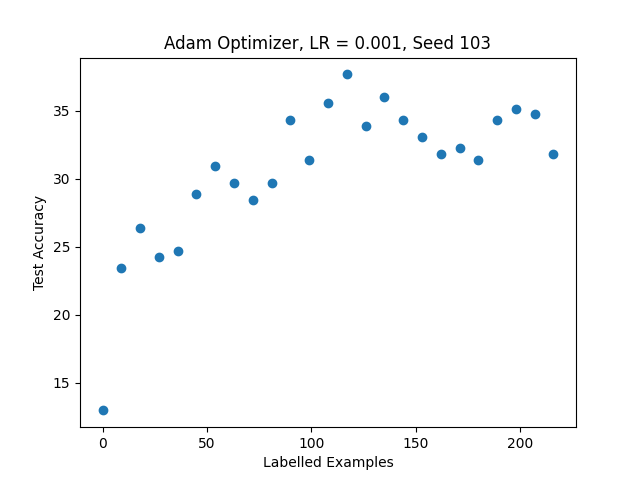
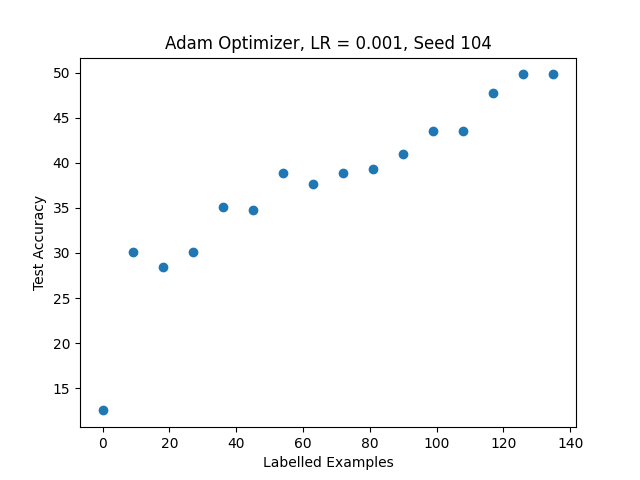
Preparing for LC25000 pickling

diff --git a/Active_FSL/base_main.py b/Active_FSL/base_main.py
@@ -11,6 +11,7 @@ import torch.optim as optim
 from torch.utils.data import DataLoader
 import torch.optim.lr_scheduler as lr_scheduler
 from torch.utils.data.sampler import SubsetRandomSampler
+import baal
 
 # Torchvison
 import torchvision.transforms as T
@@ -146,6 +147,33 @@ def test(models, dataloaders, mode='val'):
     return acc_all, acc
 
 
+def probs(models, dataloaders, mode='val'):
+    """
+    models = {'backbone': resnet18}
+    dataloaders  = {'train': train_loader, 'test': test_loader}
+    
+    """
+    assert mode == 'val' or mode == 'test'
+    
+    # switch to evaluation mode
+    models['backbone'].eval() 
+    
+    prob = []
+    
+    with torch.no_grad(): #speed up computation when no backprop is necessary
+        for (inputs, labels) in dataloaders[mode]:
+            inputs = inputs.cuda()
+            labels = labels.cuda()
+            
+            if ( len(labels) == BATCH ):
+                logits, _ = models['backbone'](inputs)
+                sc = torch.nn.functional.softmax(logits, dim=1)
+                prob.append(sc)
+    prob = torch.stack(prob)
+    return prob
+
+
+
 
 ############## Informativeness calculation methods ##############
 
@@ -168,13 +196,12 @@ def get_uncertainty_entropy(models, unlabeled_loader,unlabeled_set):
 def get_uncertainty_margin(models, unlabeled_loader):
     models['backbone'].eval()
     uncertainty_score=[]    
+    
     with torch.no_grad():
-        i=0
         for (inputs, labels) in unlabeled_loader:
             inputs = inputs.cuda()
             labels = labels.cuda()
             scores, _ = models['backbone'](inputs)
-            i=i+1
             probs = torch.nn.functional.softmax(scores, dim=1)           
             for x in probs:
                 xb=x.sort(0,True)[0]
@@ -184,21 +211,27 @@ def get_uncertainty_margin(models, unlabeled_loader):
     return uncertainty_score
 
 
-
-
-
-
+###### Query Strategy: Least Confidence ######
+def get_uncertainty_LC(models, unlabeled_loader):
+    models['backbone'].eval()
+    uncertainty_score=[]
+    with torch.no_grad():
+        for (inputs, labels) in unlabeled_loader:
+            inputs = inputs.cuda()
+            labels = labels.cuda()
+            scores, _ = models['backbone'](inputs)        
+            probs = torch.nn.functional.softmax(scores, dim=1)           
+            for x in probs:
+                xb=x.sort(0,True)[0]               
+                uncertainty_score.append(1.0/xb[0])                
+        uncertainty_score=torch.Tensor(uncertainty_score)
+    return uncertainty_score
 
 ################### Main ###################
 if __name__ == '__main__':
     
     y = [];
     x = [i*9 for i in range(CYCLES)]
-    
-    beginacc=0
-    midacc = 0
-    endacc = 0
-    finalacc = 0
     
     for trial in range(TRIALS): ## TRIALS=1
         indices = list(range(NUM_TRAIN)) # in config.py, we defined NUM_TRAIN = 10000
@@ -253,7 +286,7 @@ if __name__ == '__main__':
         ##### Active learning cycles #####
         for cycle in range(CYCLES): # cycles in config
 
-            criterion      = nn.CrossEntropyLoss(reduction='none')            
+            criterion      = nn.CrossEntropyLoss(reduction='none')
             
             # stochastic gradient descent
             #optim_backbone = optim.SGD(models['backbone'].fc.parameters(), lr=LR, momentum=MOMENTUM, weight_decay=WDECAY)
@@ -281,15 +314,6 @@ if __name__ == '__main__':
             
             # for plotting
             y.append(acc_all)
-            
-            if cycle == 1:
-                beginacc = acc_all
-            elif cycle == 6:
-                midacc = acc_all
-            elif cycle == 10:
-                endacc = acc_all
-            elif cycle == 14:
-                finalacc = acc_all
             
             # the training and test portion of the loop is now complete
             # what follows is the active learning portion
@@ -325,6 +349,14 @@ if __name__ == '__main__':
             """ normalized margin and entropy """
             #uncertainty = torch.nn.functional.normalize(get_uncertainty_margin(models, unlabeled_loader), dim=0) + torch.nn.functional.normalize(get_uncertainty_entropy(models, unlabeled_loader, unlabeled_set), dim=0)
             
+            """ Test """
+            #probabilities = probs(models, dataloaders, mode='test')
+            #uncertainty = get_uncertainty_LC(models, unlabeled_loader)
+            
+            
+            
+            
+            """ Arguments """
             arg = np.argsort(uncertainty)
             
             # optional randomizer
@@ -334,7 +366,7 @@ if __name__ == '__main__':
             ##### First round selection - individually selected samples #####
             
             # ADDENDUM most informative samples method
-            # first_selection_K_samples=list(torch.tensor(unlabeled_set)[arg][-ADDENDUM:].numpy()) # ADDENDUM=K, select K samples in each active learning cycle.
+            #first_selection_K_samples=list(torch.tensor(unlabeled_set)[arg][-ADDENDUM:].numpy()) # ADDENDUM=K, select K samples in each active learning cycle.
             
             # even selection method
             step = len(unlabeled_set)//ADDENDUM + 1
@@ -343,29 +375,34 @@ if __name__ == '__main__':
             
             ##### Second round selection - pseudocomplete sets #####
             
+            
+            """ Regular pseudocomplete sets"""
+            
             list0=[]
             second_selection_samples=[]
             
             """
             for item in torch.flip(arg,[0]): # arg is the query list (indices)
-                 #true_label=data_unlabeled.targets[item] # target is the true label
-                true_label = pseudo_labels[item]
+                true_label=data_unlabeled.targets[item] # target is the true label
+                #true_label = pseudo_labels[item]
                 if list0.count(true_label)<NUM_SHOTS:
                     list0.append(true_label)
                     second_selection_samples.append(item)
                 if len(list0)>(NUM_CLASSES*NUM_SHOTS-1): # sample a complete N-way one-shot support set with pseudolabels
                     break
-            """     
-            
+            """  
+
             
             
             """ evenly selected pseudo complete sets """
+            
             
             splits = np.array_split(arg, ADDENDUM)
             while (len(list0) < NUM_CLASSES):
                 for phase in reversed(splits):
                     for item in torch.flip(phase,[0]):             # arg is the query list                         
-                        p_label = pseudo_labels[item]
+                        #p_label = pseudo_labels[item]
+                        p_label = data_unlabeled.targets[item]     # using true labels
                         if list0.count(p_label) == 0:
                             second_selection_samples.append(item)
                             list0.append(p_label)
@@ -451,10 +488,14 @@ if __name__ == '__main__':
     
     ##### Relevant data for analysis #####
     
-    print("1 cycle = %.3f, 7 cycles = %.3f, 11 cycles = %.3f, 15 cycles = %.3f" % (beginacc, midacc, endacc, finalacc))
+    print("1 cycle = %.3f, 7 cycles = %.3f, 11 cycles = %.3f, 15 cycles = %.3f" % (y[0], y[6], y[10], y[14]))
     plt.figure()
     plt.scatter(x, y)
     plt.xlabel("Labelled Examples")
     plt.ylabel("Test Accuracy")
     plt.title("Adam Optimizer, LR = {}, Seed {}".format(LR, r_seed))
     plt.savefig('img/acc_graph.png')
+    
+    np.set_printoptions(precision=3)
+    print(np.array(y))
+    np.savetxt('acc.txt', y)

diff --git a/Active_FSL/config.py b/Active_FSL/config.py
@@ -17,7 +17,7 @@
 NUM_TRAIN = 1400 # N
 BATCH     = 64 # B #This would be the test_loader batchsize
 ADDENDUM  = 8 # K: each AL cycle selects K samples
-CYCLES = 25 # use 25 to test
+CYCLES = 16 # use 25 to test
 NUM_SHOTS=1
 NUM_CLASSES= 8  #train loader batchsize would be smaller= NMU_CLASSES
 NUM_CLUSTERS=8
@@ -35,4 +35,4 @@ EPOCHL = 120 # After 120 epochs, stop the gradient from the loss prediction modu
 MOMENTUM = 0.9
 WDECAY = 5e-4
 
-RANDOM_SEED = 103
+RANDOM_SEED = 104
